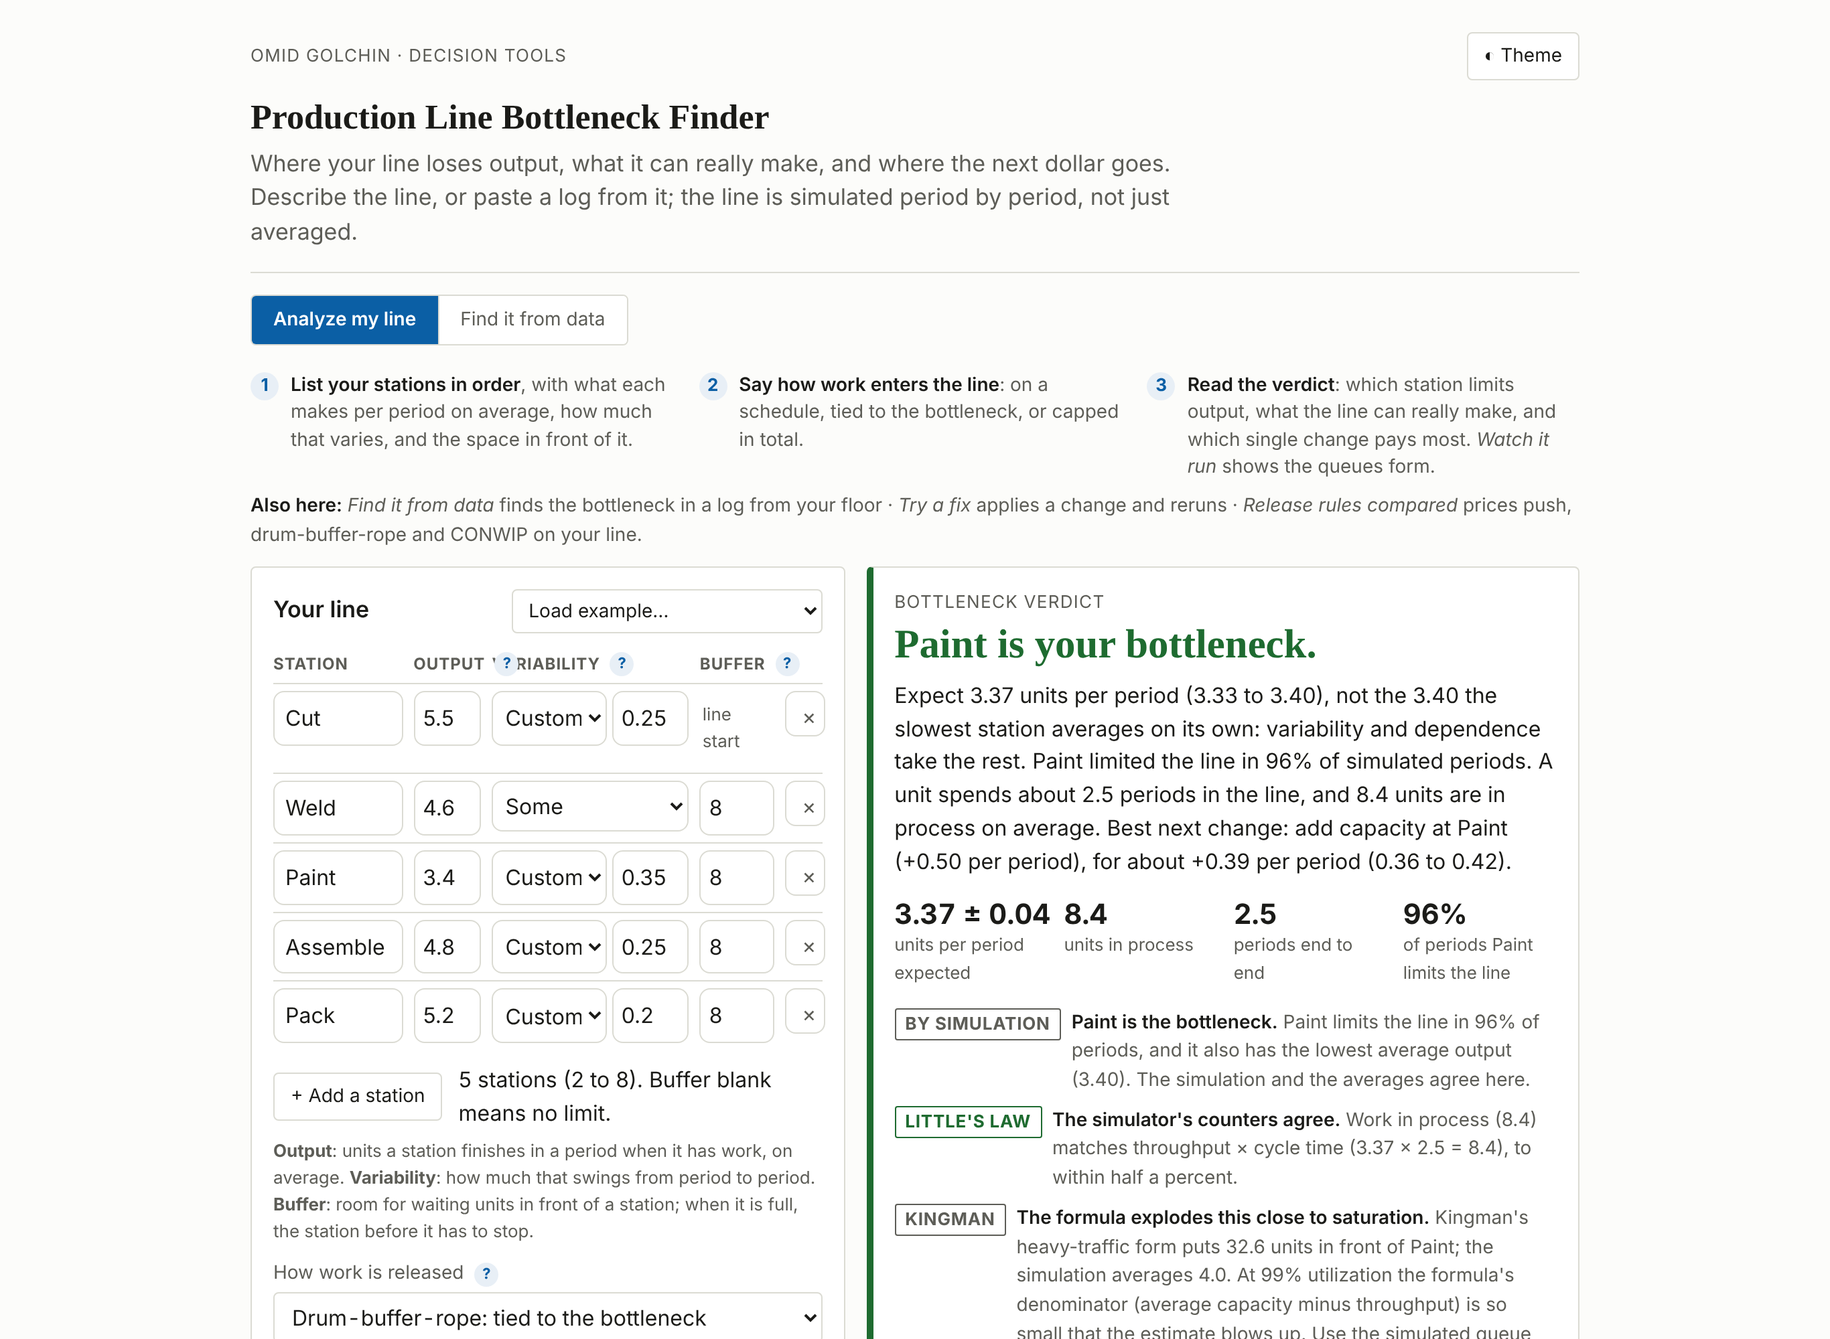
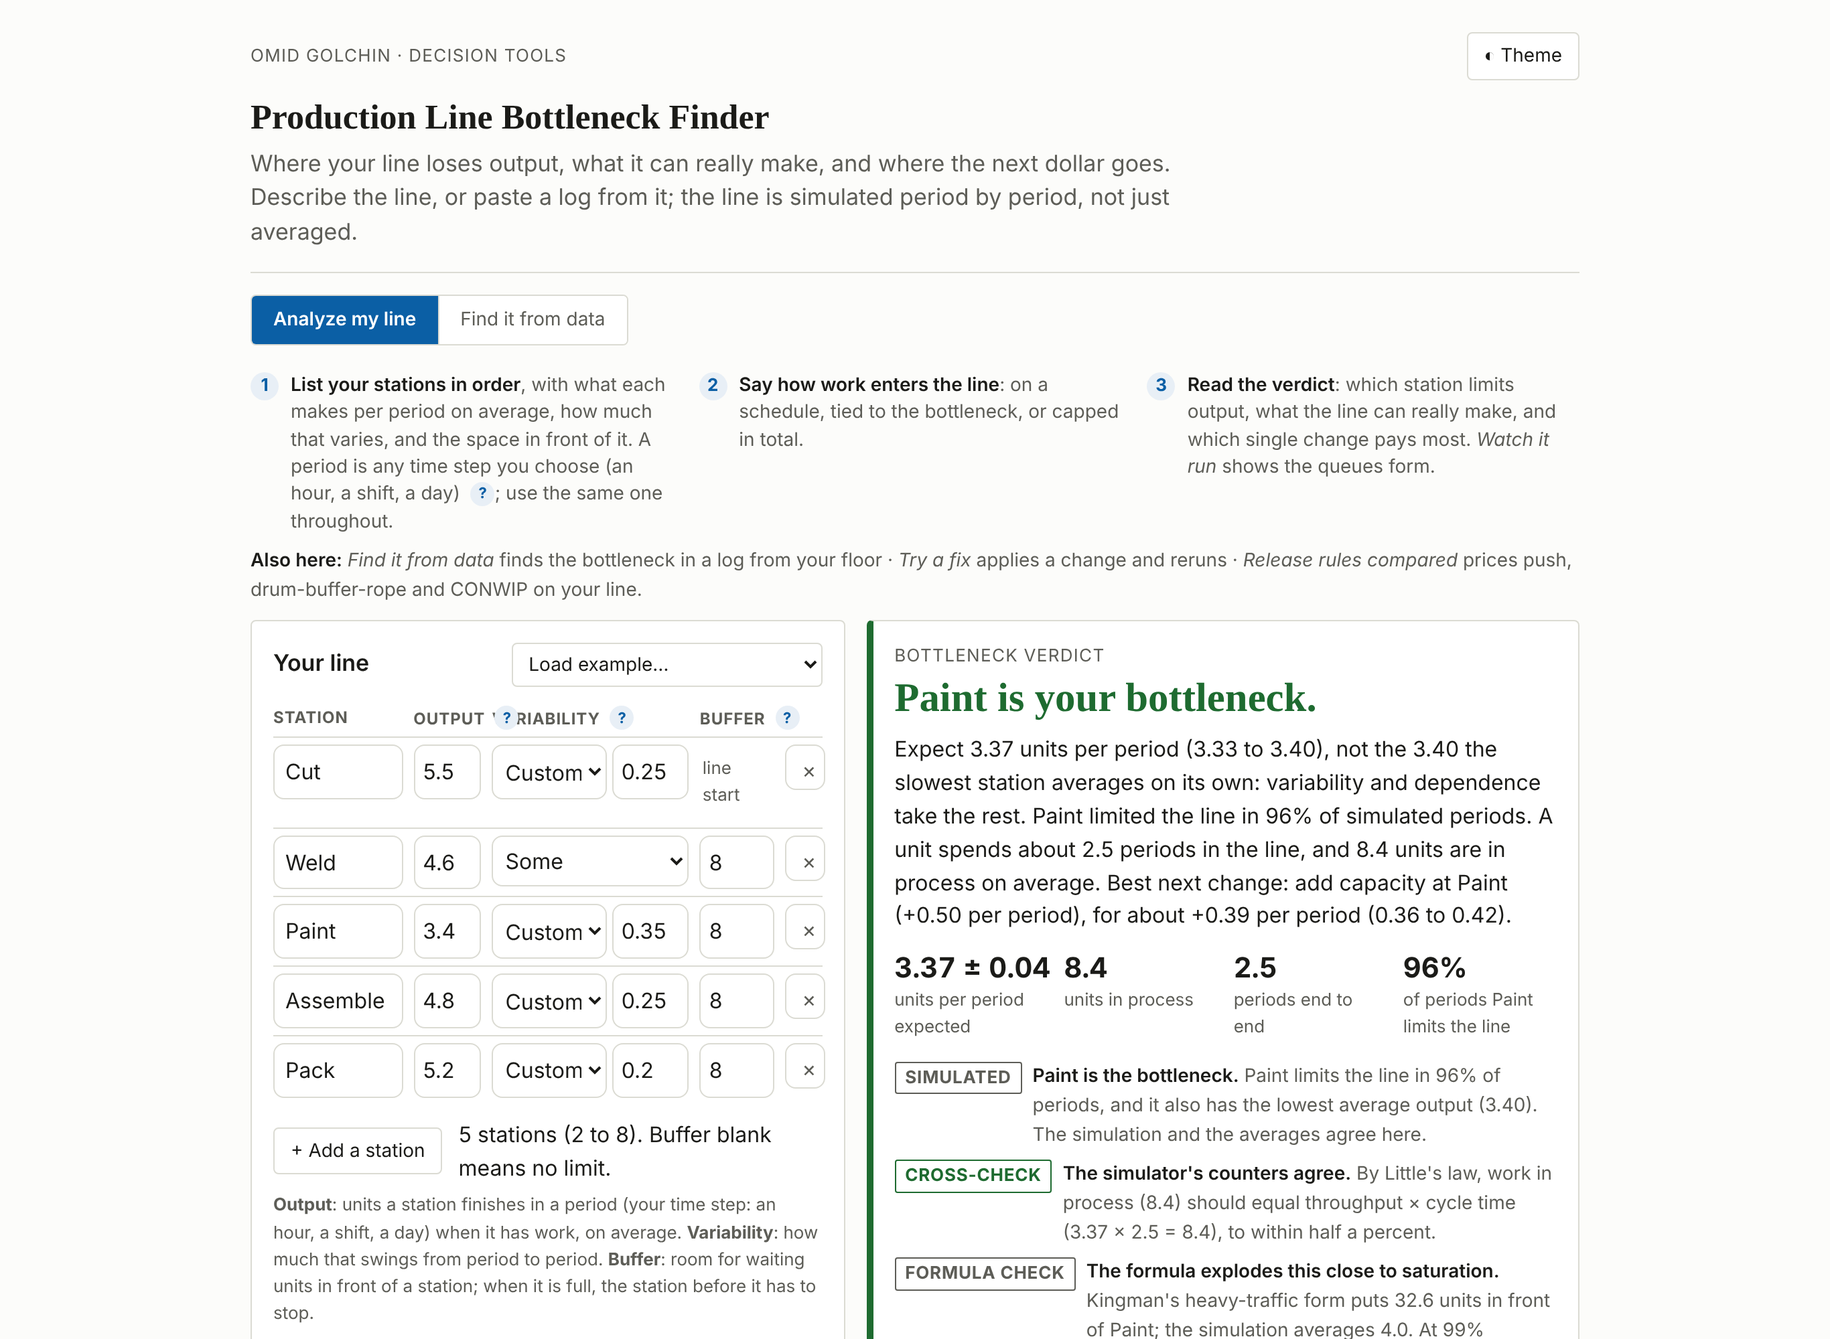
Define a period; explain each release rule in place; plain badges and variability wording
Kit: every ? has a hover title, a Skip to the result link on narrow screens, and an example banner for prefilled demo content. README, hero GIF and screenshots regenerated from the page.

Changed region(s): [[0.1245, 0.341, 0.84, 1.0]]

diff --git a/docs/app.js b/docs/app.js
@@ -34,7 +34,7 @@
 
   var VAR_OPTS = [
     ["steady", "Steady", 0.15], ["some", "Some", 0.3], ["lot", "A lot", 0.55],
-    ["die", "Die roll (1 to 6)", null], ["custom", "Custom cv", null]
+    ["die", "Die roll (1 to 6)", null], ["custom", "Custom (type a number)", null]
   ];
   function presetFor(cv) {
     for (var i = 0; i < 3; i++) if (Math.abs(cv - VAR_OPTS[i][2]) < 1e-9) return VAR_OPTS[i][0];
@@ -73,7 +73,7 @@
     varCell.appendChild(varSel);
     var cvIn = document.createElement("input");
     cvIn.className = "stn-cv"; cvIn.type = "number"; cvIn.min = "0"; cvIn.max = "2";
-    cvIn.step = "0.01"; cvIn.placeholder = "cv"; cvIn.value = st.cv;
+    cvIn.step = "0.01"; cvIn.placeholder = "0.3"; cvIn.value = st.cv;
     cvIn.setAttribute("aria-label", "Coefficient of variation");
     cvIn.hidden = st.varSel !== "custom";
     varCell.appendChild(cvIn);
@@ -135,7 +135,7 @@
       else if (r.varSel === "custom") {
         var cvEl = row.querySelector(".stn-cv");
         cv = r.cv === "" ? NaN : Number(r.cv);
-        if (!isFinite(cv) || cv < 0 || cv > 2) mark(cvEl, name + ": variability (cv) must be between 0 and 2.");
+        if (!isFinite(cv) || cv < 0 || cv > 2) mark(cvEl, name + ": variability must be between 0 (perfectly steady) and 2 (very erratic).");
       } else cv = VAR_OPTS.filter(function (o) { return o[0] === r.varSel; })[0][2];
       var buffer = null;
       if (i > 0 && r.buf !== "") {
@@ -319,44 +319,44 @@
         names[v.blocked_station] + " is blocked by the full buffer in front of " + BN + " in " +
         pct0(agg.blocked_share[v.blocked_station]) + " of periods. The station itself has capacity to spare; the room in front of it does not."]);
     } else if (bn === v.by_average) {
-      checks.push(["info", "BY SIMULATION", BN + " is the bottleneck",
+      checks.push(["info", "SIMULATED", BN + " is the bottleneck",
         BN + " limits the line in " + pct0(agg.limiting_share[bn]) + " of periods, and it also has the lowest average output (" +
         n2(R.means[bn]) + "). The simulation and the averages agree here."]);
     } else {
-      checks.push(["warn", "BY SIMULATION", "The averages point at a different station",
+      checks.push(["warn", "SIMULATED", "The averages point at a different station",
         names[v.by_average] + " has the lowest average output (" + n2(R.means[v.by_average]) + "), but " + BN +
         " limits the line most often (" + pct0(agg.limiting_share[bn]) + " of periods). With this much variability, trust the simulation."]);
     }
     /* 2: Little's law */
     var lr = agg.littles_ratio;
     if (lr === null || lr === undefined || !isFinite(lr)) {
-      checks.push(["info", "LITTLE'S LAW", "Nothing to check yet",
+      checks.push(["info", "CROSS-CHECK", "Nothing to check yet",
         "No units finished during the measured part of the runs, so work in process and cycle time have nothing to agree with."]);
     } else {
       var dev = Math.abs(lr - 1), prod = th * agg.mean_ct;
-      if (dev <= 0.05) checks.push(["ok", "LITTLE'S LAW", "The simulator's counters agree",
-        "Work in process (" + n1(agg.mean_wip) + ") matches throughput × cycle time (" + n2(th) + " × " + n1(agg.mean_ct) +
+      if (dev <= 0.05) checks.push(["ok", "CROSS-CHECK", "The simulator's counters agree",
+        "By Little's law, work in process (" + n1(agg.mean_wip) + ") should equal throughput × cycle time (" + n2(th) + " × " + n1(agg.mean_ct) +
         " = " + n1(prod) + ")" + (dev < 0.005 ? ", to within half a percent." : " within " + pct0(dev) + ".")]);
-      else if (dev <= 0.5) checks.push(["warn", "LITTLE'S LAW", "The line is still settling",
+      else if (dev <= 0.5) checks.push(["warn", "CROSS-CHECK", "The line is still settling",
         "Work in process (" + n1(agg.mean_wip) + ") sits " + pct0(dev) + " away from throughput × cycle time (" + n1(prod) +
         "): queues are still growing over this horizon, so read the WIP and cycle-time figures as approximate."]);
-      else checks.push(["fail", "LITTLE'S LAW", "The run never settles",
+      else checks.push(["fail", "CROSS-CHECK", "The run never settles",
         "Work in process (" + n1(agg.mean_wip) + ") is " + pct0(dev) + " away from throughput × cycle time (" + n1(prod) +
         "): queues grow through the whole run. Throughput is the settled number here; WIP and cycle time are lower bounds."]);
     }
     /* 3: Kingman next to simulation */
     var kgB = R.kg[bn], simQ = agg.mean_buffers[bn];
     if (!kgB || kgB.queue === null || kgB.queue === undefined) {
-      checks.push(["info", "KINGMAN", "No finite queue at " + BN,
+      checks.push(["info", "FORMULA CHECK", "No finite queue at " + BN,
         BN + " runs at or over the line's throughput on average, so the heavy-traffic approximation has no finite queue there, and neither does the line: its queue is the one that grows."]);
     } else if (kgB.util >= 0.98) {
-      checks.push(["info", "KINGMAN", "The formula explodes this close to saturation",
+      checks.push(["info", "FORMULA CHECK", "The formula explodes this close to saturation",
         "Kingman's heavy-traffic form puts " + n1(kgB.queue) + " units in front of " + BN + "; the simulation averages " +
         n1(simQ) + ". At " + pct0(Math.min(kgB.util, 1)) + " utilization the formula's denominator (average capacity minus throughput) is so small that the estimate blows up. Use the simulated queue here; the formula is a cross-check at lower utilizations."]);
     } else {
       var dir = kgB.queue >= simQ ? "high" : "low";
       var kdev = simQ > 0.05 ? " It runs " + dir + " by about " + pct0(Math.abs(kgB.queue - simQ) / simQ) + " at this utilization (" + pct0(Math.min(kgB.util, 1)) + ")." : "";
-      checks.push(["info", "KINGMAN", "Formula next to simulation",
+      checks.push(["info", "FORMULA CHECK", "Formula next to simulation",
         "Kingman's heavy-traffic approximation puts " + n1(kgB.queue) + " units in front of " + BN +
         "; the simulation averages " + n1(simQ) + "." + kdev]);
     }
@@ -371,12 +371,12 @@
     var relText = "Set to make " + n2(rows[0].target) + " a period (95% of what the line can pass), work in process is " + wipList +
       ". Set 20% too high, it becomes " + highList + ".";
     if (mine === "push" && fragile) {
-      checks.push(["warn", "RELEASE RULES", "Push only works while the rate is right",
+      checks.push(["warn", "RELEASE RULE", "Push only works while the rate is right",
         relText + " A pull rule caps the damage of a wrong setting; push lets the queue grow until someone notices."]);
     } else if (mine !== "push") {
-      checks.push(["ok", "RELEASE RULES", labels[mine] + " protects you from a wrong setting", relText]);
+      checks.push(["ok", "RELEASE RULE", labels[mine] + " protects you from a wrong setting", relText]);
     } else {
-      checks.push(["info", "RELEASE RULES", "Release rules at the same output", relText]);
+      checks.push(["info", "RELEASE RULE", "Release rules at the same output", relText]);
     }
     /* 5: plan, or what dependence costs */
     if (R.parsed.plan !== null && R.parsed.plan !== undefined) {
@@ -389,7 +389,7 @@
       var minMean = Math.min.apply(null, R.means);
       var capVal = R.capAgg ? R.capAgg.throughput : th;
       var loss = minMean - capVal;
-      checks.push(["info", "DEPENDENCE", "What dependence costs",
+      checks.push(["info", "VARIABILITY COST", "What dependence costs",
         "The slowest station averages " + n2(minMean) + " per period on its own. " +
         (R.capAgg ? "Even with an endless supply, the line passes " + n2(capVal)
                   : "As released, the line passes " + n2(capVal)) +
@@ -578,6 +578,10 @@
     var rel = $("rel").value;
     var labels = { push: "Release rate (units per period)", dbr: "Rope: units allowed at or before the bottleneck", conwip: "Work-in-process cap (units)" };
     $("rel-param-label").textContent = labels[rel];
+    var plain = { push: "Push: a fixed amount of new work enters every period, whatever the line is doing. Simple, but too fast builds queues and too slow starves the line.",
+      dbr: "Drum-buffer-rope: new work enters only when the bottleneck has room, so the slowest station sets the pace and a small queue keeps it from ever running dry.",
+      conwip: "CONWIP: the line holds a fixed number of units in total; when one finishes, one new unit enters." };
+    var rh = $("rel").closest(".field").querySelector(".hint"); if (rh) rh.textContent = plain[rel];
     $("rel-param").value = relVals[paramKey(rel)];
   }
   function applyExample(key) {
@@ -661,10 +665,10 @@
     }).join("");
     var checks = [];
     if (allActive) {
-      checks.push(["warn", "ACTIVE PERIOD", "This log has no idle time to read",
+      checks.push(["warn", "LONGEST RUN", "This log has no idle time to read",
         "The method works by watching whose unbroken active run is longest. With every station active in every period, all runs grow together and no winner emerges."]);
     } else {
-      checks.push(["info", "ACTIVE PERIOD", "Longest unbroken run wins",
+      checks.push(["info", "LONGEST RUN", "Longest unbroken run wins",
         B + " was the momentary bottleneck in " + pct0(a.bottleneck_share[top]) + " of the " + T + " periods. Longest unbroken run in the log: " + B + ", " + a.longest_active[top] + " periods."]);
     }
     var withOut = a.mean_output.map(function (m, i) { return m === null ? -1 : i; }).filter(function (i) { return i >= 0; });
@@ -680,9 +684,9 @@
       checks.push(["info", "FROM DATA", "States only",
         "This log records states, not output counts, so there are no averages to compare against the active-period reading."]);
     }
-    if (T < 30) checks.push(["warn", "THE LOG", "A short log",
+    if (T < 30) checks.push(["warn", "YOUR LOG", "A short log",
       T + " periods is short for shares: under 30 periods, treat the winner as a lead, not a verdict."]);
-    else checks.push(["ok", "THE LOG", "Log read cleanly", T + " periods across " + names.length + " stations."]);
+    else checks.push(["ok", "YOUR LOG", "Log read cleanly", T + " periods across " + names.length + " stations."]);
     var idleIdx = 0;
     a.active_share.forEach(function (s, i) { if (s < a.active_share[idleIdx]) idleIdx = i; });
     if (a.active_share[idleIdx] < 0.5 && v.reason !== "never-active") {
@@ -940,6 +944,7 @@
   if (["200", "300", "500"].indexOf(String(state.periods)) >= 0) $("periods").value = String(state.periods);
   $("log").value = SAMPLES.planted;
   Tool.explain({
+    period: { t: "Period", d: "Whatever time step suits your line: an hour, a shift, a day. Pick one and use it for every number on the page: output per period, planned output, and the rows of a log." },
     mean: { t: "Output per period", d: "How many units this station finishes in one period when it has work to do, on average. In The Goal's dice game, a fair die averages 3.5." },
     cv: { t: "Variability", d: "How much a station's output swings from period to period, as the coefficient of variation (standard deviation ÷ average). Low ≈ 0.1, some ≈ 0.25, high ≈ 0.5; pick Custom to type your own. Variability is why a line makes less than its slowest station's average: a bad period starves the next station, and a good period cannot be banked without a buffer." },
     buf: { t: "Buffer in front", d: "How many waiting units fit in front of this station. When the buffer is full, the station before it is blocked and has to stop. Leave it blank for unlimited space." },

diff --git a/docs/tool-common.js b/docs/tool-common.js
@@ -9,6 +9,7 @@
  *   Tool.explain(glossary)         "?" buttons that open a plain-language explanation
  *   Tool.siblings(currentRepo)     the "More tools" footer line, from one shared list
  *   Tool.tabs(tablist)             arrow-key support for a mode switch
+ *   Tool.exampleBanner(form, text) marks prefilled example content where it sits
  *
  * No dependencies. Works from file:// and on GitHub Pages.
  */
@@ -433,6 +434,7 @@
       if (btn.tagName === "BUTTON") btn.type = "button";
       if (!btn.textContent.trim()) btn.textContent = "?";
       btn.setAttribute("aria-label", "What is " + g.t.replace(/[.?:]$/, "") + "?");
+      btn.title = "Explain: " + g.t.replace(/[.?:]$/, "");
       btn.setAttribute("aria-expanded", "false");
       // keep the "?" on the same line as the last word before it
       var prev = btn.previousSibling;
@@ -531,16 +533,45 @@
     sync(); new MutationObserver(sync).observe(list, { subtree: true, attributes: true, attributeFilter: ["aria-selected"] });
   }
 
+
+  /* ---------------- example banner, jump to result ---------------- */
+  // Marks prefilled example content where it sits, so a first-time visitor
+  // does not read the demo verdict as their own. text = null hides it.
+  function exampleBanner(form, text) {
+    if (!form) return;
+    var b = form.querySelector(":scope > .ex-banner");
+    if (!text) { if (b) b.hidden = true; return; }
+    if (!b) {
+      b = document.createElement("p"); b.className = "ex-banner"; b.setAttribute("role", "status");
+      var head = form.querySelector(":scope > .panel-head");
+      if (head && head.nextSibling) form.insertBefore(b, head.nextSibling); else form.insertBefore(b, form.firstChild);
+    }
+    b.hidden = false;
+    b.innerHTML = '<span class="ex-tag">Example</span> ' + text;
+  }
+  // On narrow screens the inputs come first; give a way straight to the result.
+  function jumpLinks() {
+    document.querySelectorAll(".work").forEach(function (w, i) {
+      var form = w.querySelector("form.panel"), v = w.querySelector(".verdict");
+      if (!form || !v || form.querySelector(".jump")) return;
+      if (!v.id) v.id = "result-" + i;
+      var a = document.createElement("a"); a.className = "jump"; a.href = "#" + v.id; a.textContent = "Skip to the result ↓";
+      var head = form.querySelector(":scope > .panel-head");
+      if (head && head.nextSibling) form.insertBefore(a, head.nextSibling); else form.insertBefore(a, form.firstChild);
+    });
+  }
+
   if (typeof document !== "undefined") {
     document.addEventListener("DOMContentLoaded", function () {
       var m = location.pathname.match(/\/([^\/]+)\/(?:docs\/)?(?:index\.html)?$/);
       siblings(m ? m[1] : "");
       tabs();
       alignFields();
+      jumpLinks();
     });
   }
 
-  var api = { explain: explain, alignFields: alignFields, closeTip: closeTip, siblings: siblings, tabs: tabs, TOOLS: TOOLS, readParams: readParams, writeParams: writeParams, copy: copy, fmt: fmt, lineChart: lineChart, niceTicks: niceTicks, assist: assist, _buildPrompt: buildPrompt, _parseReply: parseReply, _quoteFound: quoteFound, _coerce: coerce };
+  var api = { explain: explain, alignFields: alignFields, exampleBanner: exampleBanner, jumpLinks: jumpLinks, closeTip: closeTip, siblings: siblings, tabs: tabs, TOOLS: TOOLS, readParams: readParams, writeParams: writeParams, copy: copy, fmt: fmt, lineChart: lineChart, niceTicks: niceTicks, assist: assist, _buildPrompt: buildPrompt, _parseReply: parseReply, _quoteFound: quoteFound, _coerce: coerce };
   if (typeof module !== "undefined" && module.exports) module.exports = api;
   if (typeof window !== "undefined") window.Tool = api;
 })();

diff --git a/docs/index.html b/docs/index.html
@@ -89,7 +89,7 @@
   <div id="view-analyze" role="tabpanel" aria-labelledby="tab-analyze">
     <div class="guide" aria-label="How to use this mode">
       <ol class="steps">
-        <li><b>List your stations in order</b>, with what each makes per period on average, how much that varies, and the space in front of it.</li>
+        <li><b>List your stations in order</b>, with what each makes per period on average, how much that varies, and the space in front of it. A period is any time step you choose (an hour, a shift, a day) <button type="button" data-tip="period"></button>; use the same one throughout.</li>
         <li><b>Say how work enters the line</b>: on a schedule, tied to the bottleneck, or capped in total.</li>
         <li><b>Read the verdict</b>: which station limits output, what the line can really make, and which single change pays most. <i>Watch it run</i> shows the queues form.</li>
       </ol>
@@ -116,7 +116,7 @@
           <button type="button" class="btn small" id="add-station">+ Add a station</button>
           <span class="hint" id="stn-count"></span>
         </div>
-        <p class="hint stn-help"><b>Output</b>: units a station finishes in a period when it has work, on average. <b>Variability</b>: how much that swings from period to period. <b>Buffer</b>: room for waiting units in front of a station; when it is full, the station before it has to stop.</p>
+        <p class="hint stn-help"><b>Output</b>: units a station finishes in a period (your time step: an hour, a shift, a day) when it has work, on average. <b>Variability</b>: how much that swings from period to period. <b>Buffer</b>: room for waiting units in front of a station; when it is full, the station before it has to stop.</p>
         <div class="grid2">
           <div class="field">
             <label for="rel">How work is released <button type="button" data-tip="release"></button></label>
@@ -145,8 +145,8 @@
 
       <section class="panel verdict" id="verdict" aria-live="polite">
         <p class="v-kicker" id="v-kicker">Bottleneck verdict</p>
-        <h3 class="v-title" id="v-title">…</h3>
-        <p class="v-body" id="v-body">…</p>
+        <h3 class="v-title" id="v-title">Simulating your line…</h3>
+        <p class="v-body" id="v-body">This takes a moment. The page runs the simulation in your browser, so JavaScript must be on.</p>
         <div class="kpis" id="v-kpis"></div>
         <div class="checks" id="v-checks"></div>
         <div class="actions">
@@ -271,8 +271,8 @@
 
       <section class="panel verdict" id="d-verdict" aria-live="polite">
         <p class="v-kicker">Bottleneck from your log</p>
-        <h3 class="v-title" id="dv-title">…</h3>
-        <p class="v-body" id="dv-body">…</p>
+        <h3 class="v-title" id="dv-title">Reading your log…</h3>
+        <p class="v-body" id="dv-body">The page analyzes the log in your browser, so JavaScript must be on.</p>
         <div class="kpis" id="dv-kpis"></div>
         <div class="checks" id="dv-checks"></div>
         <div class="actions">

diff --git a/docs/tool.css b/docs/tool.css
@@ -138,3 +138,7 @@ select.example { font-size: var(--fs-small); }
 .fields.sg-on > :not(.sg) { margin-bottom: var(--sp-3); }
 .fields.sg-on > .group-label { margin: var(--sp-2) 0 6px; }
 .field-after:empty { display: none; }
+.ex-banner { margin: 0 0 var(--sp-3); padding: 6px 10px; border-radius: var(--radius); background: var(--accent-soft); color: var(--fg); font-size: var(--fs-small); line-height: 1.45; }
+.ex-banner .ex-tag { display: inline-block; font-size: var(--fs-caption); font-weight: 700; letter-spacing: .04em; text-transform: uppercase; color: var(--accent); margin-right: 4px; }
+.jump { display: none; }
+@media (max-width: 820px) { .jump { display: inline-block; margin: 0 0 var(--sp-3); font-size: var(--fs-small); font-weight: 600; } }
